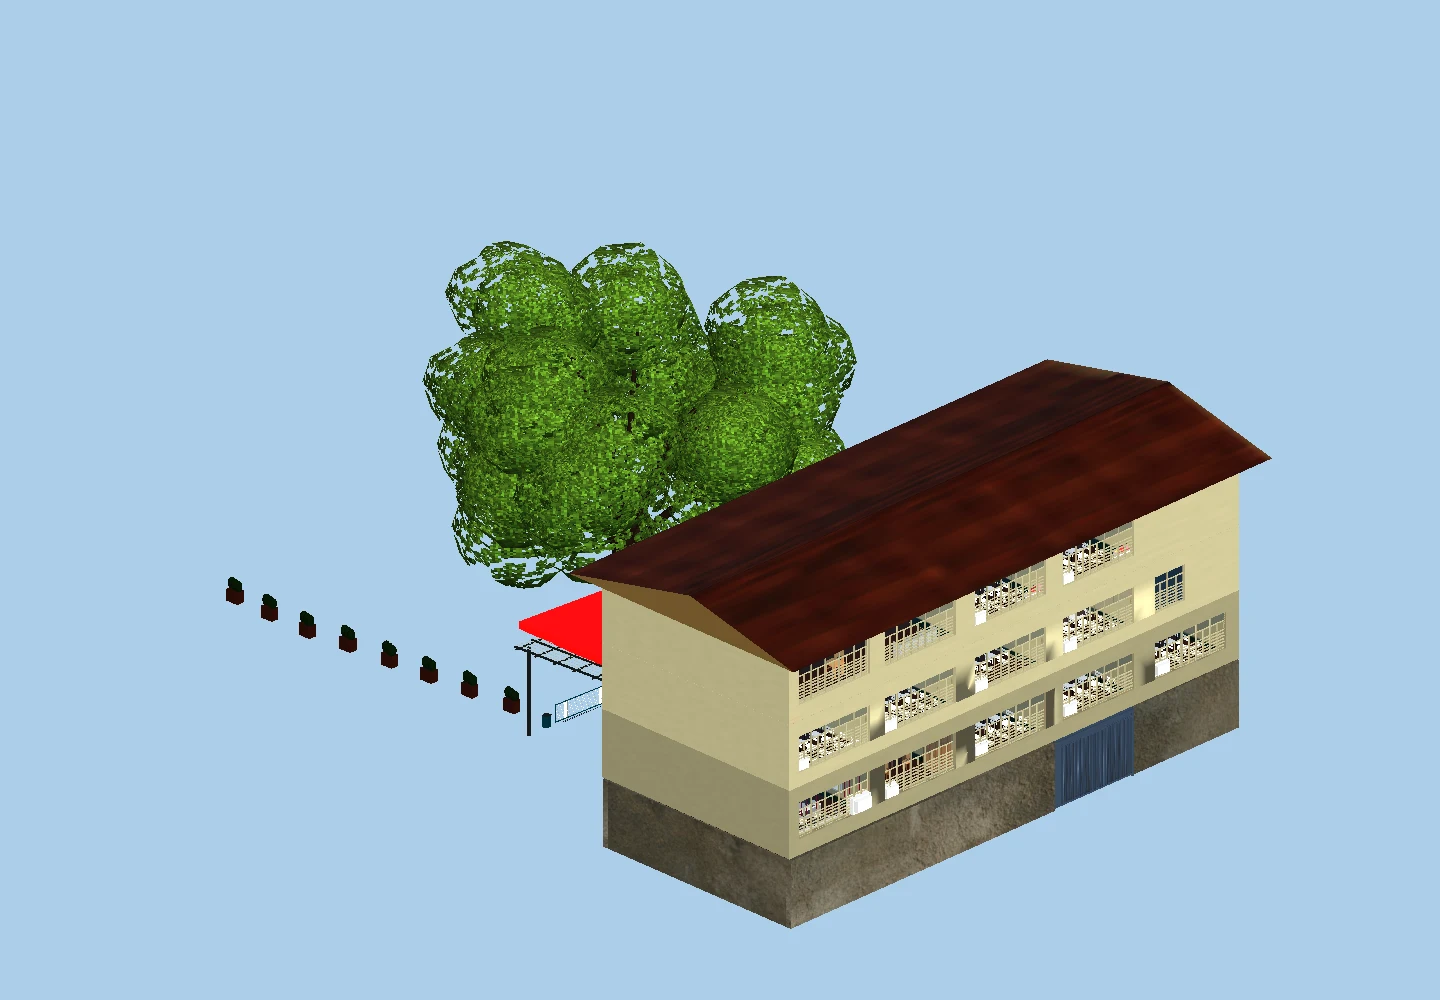
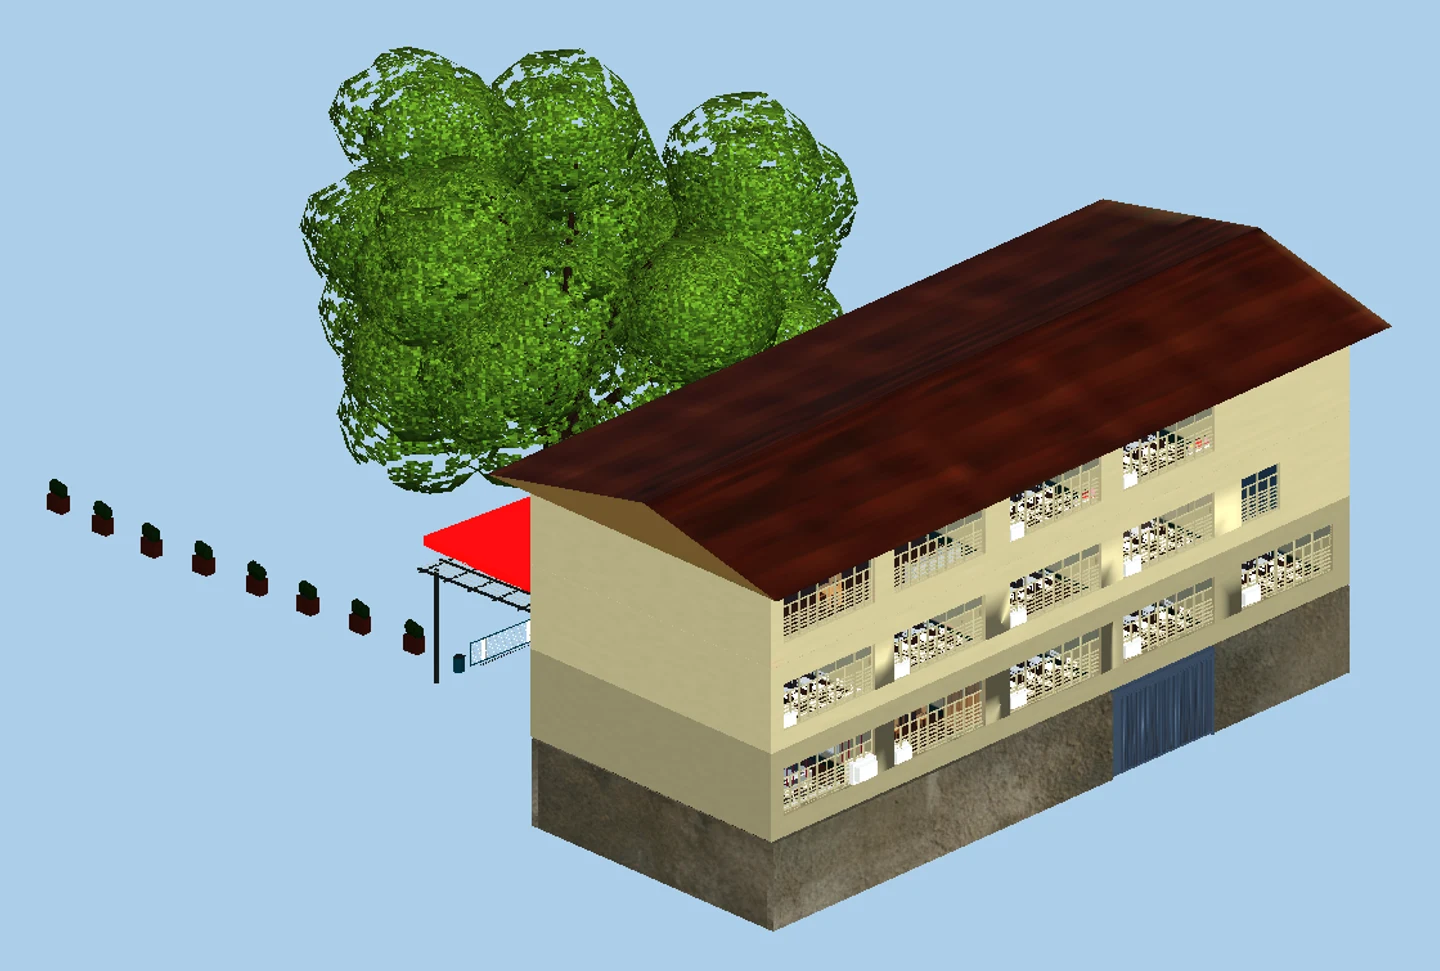
Keep hero thumbnails clear of their captions

diff --git a/index.html b/index.html
@@ -7,7 +7,7 @@
   <meta name="description" content="Meet VirtuGuide SJBP. Explore St. John the Baptist Parochial School in a virtual campus tour or bring its buildings into your space with augmented reality. Download the Android app and AR markers.">
   <title>VirtuGuide SJBP — Your campus, a little closer.</title>
   <link rel="icon" href="assets/favicon.svg" type="image/svg+xml">
-  <link rel="stylesheet" href="styles.css?v=content-cleanup-20261017">
+  <link rel="stylesheet" href="styles.css?v=collage-1.0.9">
   <script src="release.js?v=1.0.9-room-tours" defer></script>
   <script src="app.js?v=content-cleanup-20261017" defer></script>
   <script src="motion.js?v=blue-20261016" defer></script>
@@ -30,7 +30,7 @@
   <main id="main">
     <section class="hero wrap" aria-labelledby="hero-title">
       <div class="hero-copy"><p class="eyebrow"><span class="status-dot"></span> A NEW WAY TO KNOW YOUR SCHOOL</p><h1 id="hero-title">Your campus,<br>a little <em>closer.</em></h1><p class="lede">Walk the halls. Find your next classroom. See a whole building on your table. Meet <strong>VirtuGuide SJBP</strong>, your guide to St. John the Baptist Parochial School.</p><div class="hero-actions"><a class="button dark" href="#download">Download for Android <span aria-hidden="true">↓</span></a><a class="text-link" href="#gallery">Take a look around <span aria-hidden="true">↗</span></a></div><p class="hero-note">A mobile virtual tour + augmented reality experience.</p></div>
-      <figure class="hero-visual hero-collage"><div class="visual-top"><span><span class="status-dot"></span> YOUR SCHOOL. A NEW PERSPECTIVE.</span><span>VIRTUGUIDE / SJBP</span></div><div class="hero-photo"><img src="assets/school-campus.webp" width="1400" height="647" alt="A real photo of the Elementary building and blue campus court at St. John the Baptist Parochial School" fetchpriority="high"><span class="photo-label">ST. JOHN THE BAPTIST PAROCHIAL SCHOOL <small>THE CAMPUS BEHIND THE EXPERIENCE</small></span></div><div class="hero-photo-pair"><div class="hero-mini model-mini"><img src="assets/elementary-ar-1.0.9.webp" width="1440" height="1000" alt="Updated Elementary AR model with its canteen, landscaping and leafy shade tree"><span>01 / EXPLORE IN AR</span></div><div class="hero-mini"><img src="assets/virtual-campus-1.0.9.webp" width="1440" height="900" alt="The updated virtual campus courtyard with the shade tree, canteen and room information boards"><span>02 / WALK THE CAMPUS</span></div></div><figcaption>Real campus. Interactive discovery. <span>AR + VIRTUAL TOUR ↗</span></figcaption></figure>
+      <figure class="hero-visual hero-collage"><div class="visual-top"><span><span class="status-dot"></span> YOUR SCHOOL. A NEW PERSPECTIVE.</span><span>VIRTUGUIDE / SJBP</span></div><div class="hero-photo"><img src="assets/school-campus.webp" width="1400" height="647" alt="A real photo of the Elementary building and blue campus court at St. John the Baptist Parochial School" fetchpriority="high"><span class="photo-label">ST. JOHN THE BAPTIST PAROCHIAL SCHOOL <small>THE CAMPUS BEHIND THE EXPERIENCE</small></span></div><div class="hero-photo-pair"><div class="hero-mini model-mini"><img src="assets/elementary-ar-1.0.9.webp" width="1440" height="971" alt="Updated Elementary AR model with its canteen, landscaping and leafy shade tree"><span>01 / EXPLORE IN AR</span></div><div class="hero-mini"><img src="assets/virtual-campus-1.0.9.webp" width="1440" height="900" alt="The updated virtual campus courtyard with the shade tree, canteen and room information boards"><span>02 / WALK THE CAMPUS</span></div></div><figcaption>Real campus. Interactive discovery. <span>AR + VIRTUAL TOUR ↗</span></figcaption></figure>
     </section>
 
     <div class="intro-strip wrap"><span class="strip-label">ONE CAMPUS. MORE TO DISCOVER.</span><span>Preschool</span><span>Elementary</span><span>Senior High School</span><span class="strip-end">Made for curious explorers <span aria-hidden="true">✳</span></span></div>

diff --git a/styles.css b/styles.css
@@ -98,3 +98,7 @@ model-viewer{position:absolute;inset:0;width:100%;height:100%;background:transpa
 .community-links a:hover{background:#e1effe;transform:translateY(-1px)}.community-links .community-feedback:hover{background:#0758b3}
 @media(max-width:760px){.community-links{justify-content:stretch;gap:9px;padding-block:12px}.community-links a{flex:1;gap:15px;font-size:11px;padding:11px 10px}}
 @media(prefers-reduced-motion:reduce){.community-links a{transition:none}.community-links a:hover{transform:none}}
+
+/* Keep release preview images above their captions. */
+.hero-mini>img{height:calc(100% - 28px)}
+@media(max-width:760px){.hero-mini>img{height:calc(100% - 24px)}}
